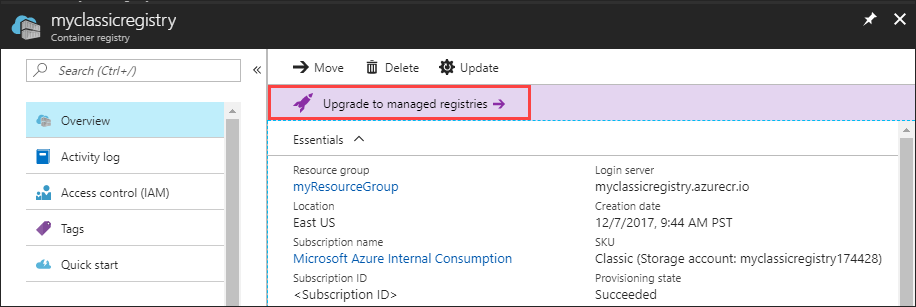
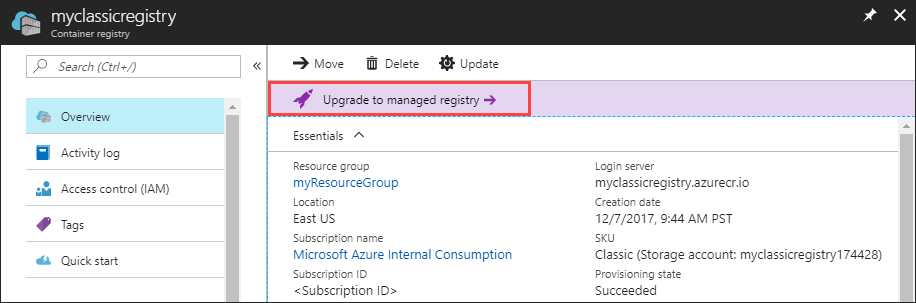
[acr] match fixed portal UI (singular 'registry')

diff --git a/articles/container-registry/container-registry-upgrade.md b/articles/container-registry/container-registry-upgrade.md
@@ -92,7 +92,7 @@ If you receive a similar error, run the [az acr update][az-acr-update] command a
 
 When you upgrade a Classic registry by using the Azure portal, Azure automatically selects the lowest-level SKU that can accommodate your images. For example, if your registry contains 12 GiB in images, Azure automatically selects and converts the Classic registry to Standard (100 GiB maximum).
 
-To upgrade your Classic registry by using the Azure portal, navigate to the container registry **Overview** and select **Upgrade to managed registries**.
+To upgrade your Classic registry by using the Azure portal, navigate to the container registry **Overview** and select **Upgrade to managed registry**.
 
 ![Classic registry upgrade button in the Azure portal UI][update-classic-01-upgrade]
 
